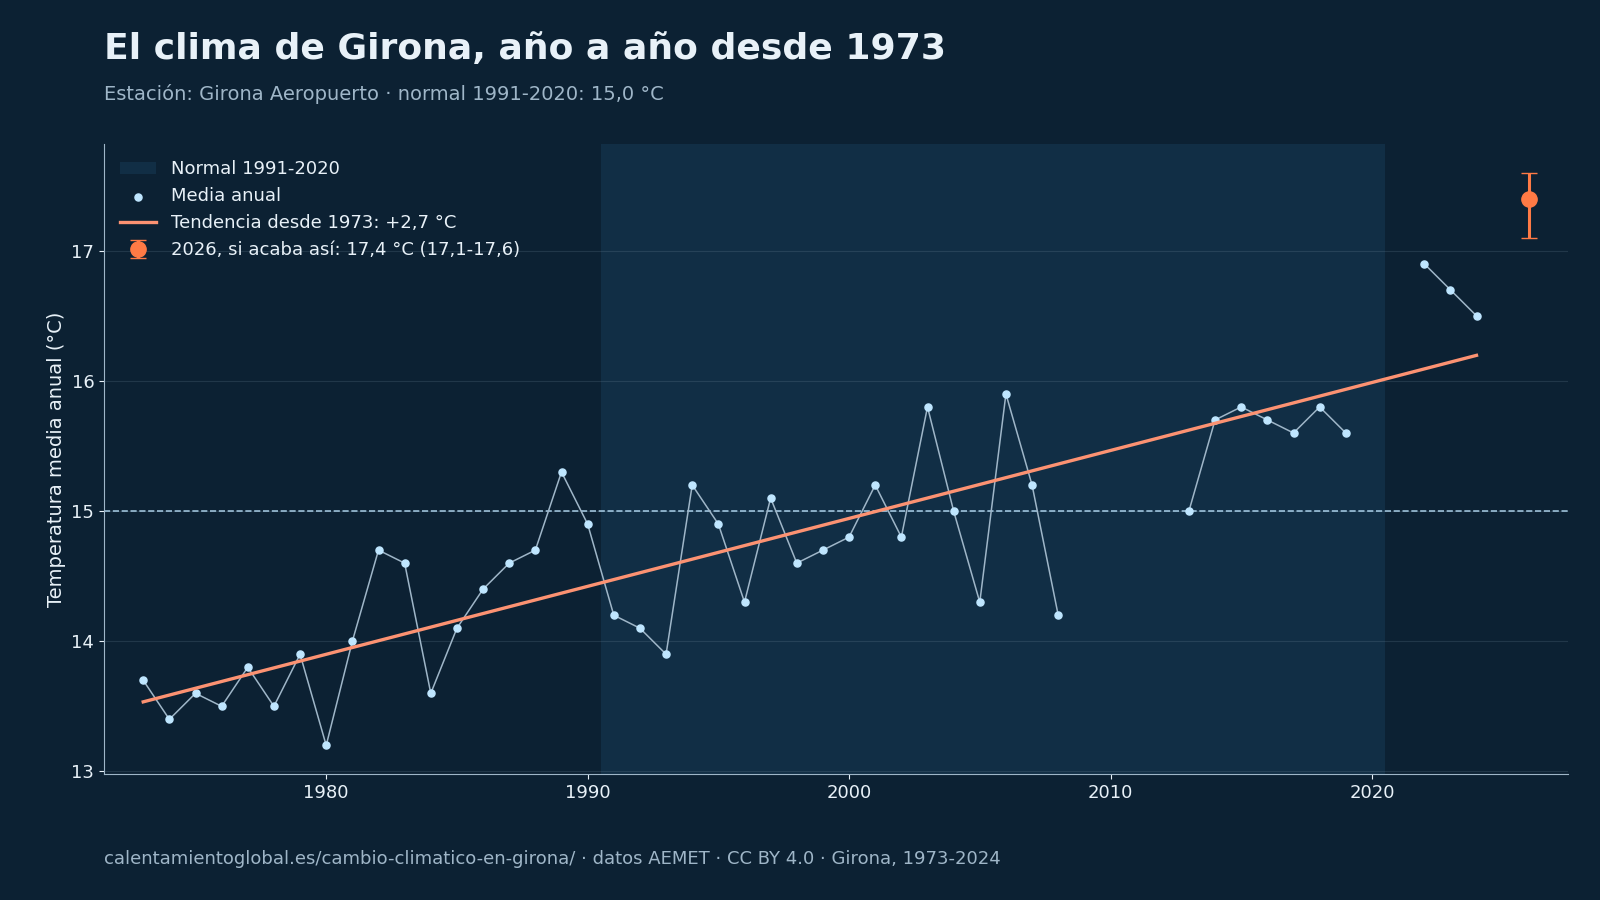
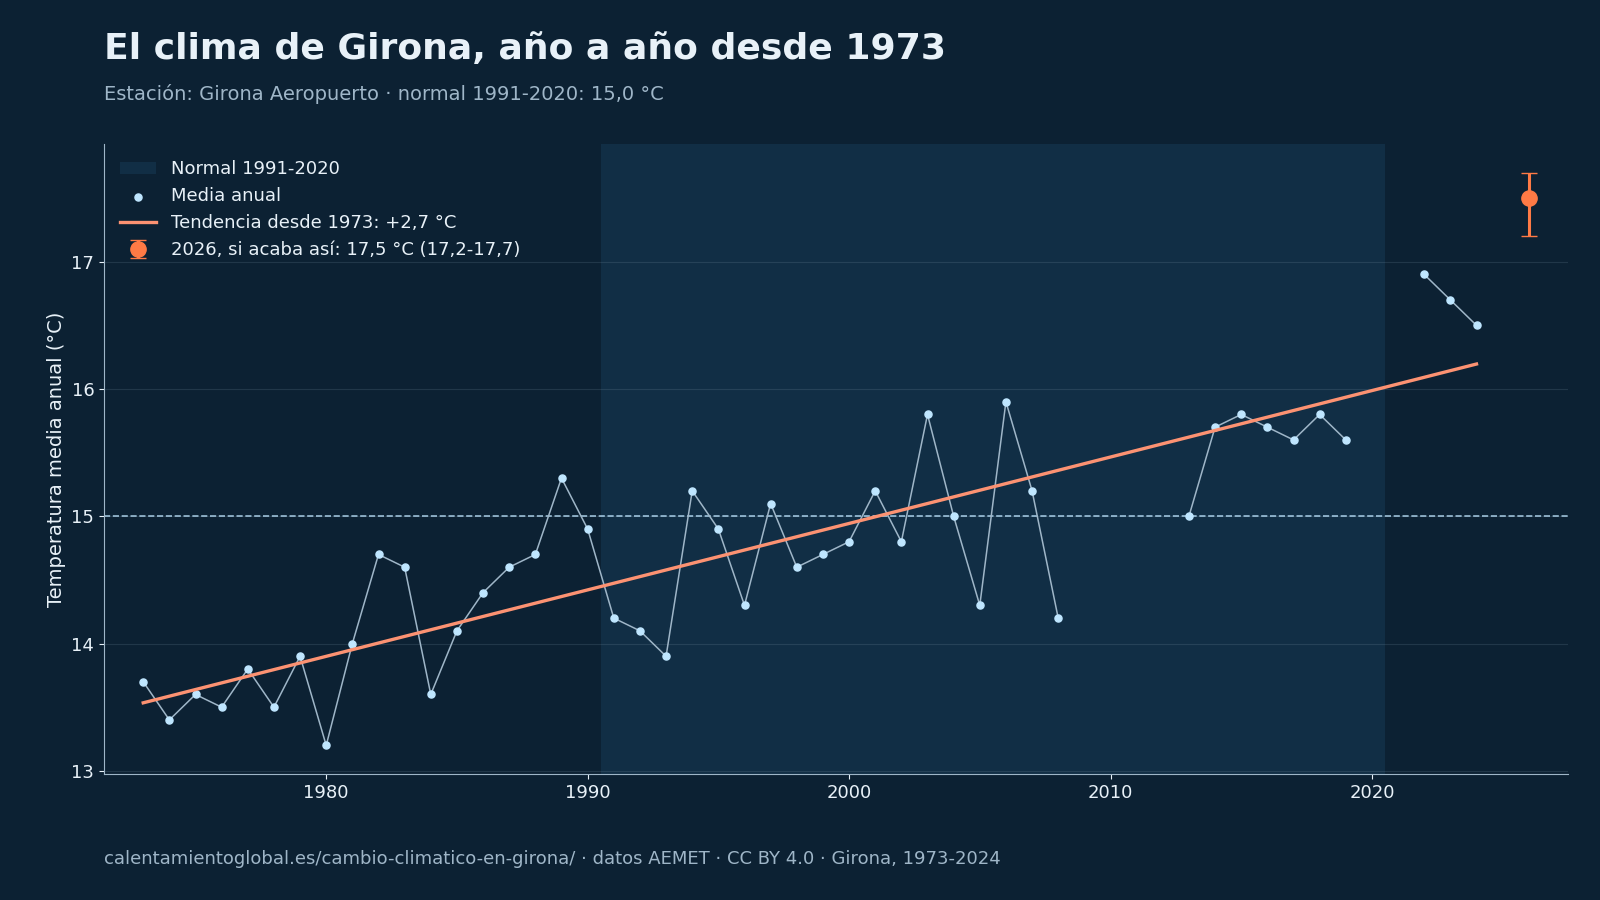
tu-capital: series anuales 2026-11-24 18:04 UTC

diff --git a/docs/tu-capital/nacional-nota.md b/docs/tu-capital/nacional-nota.md
@@ -8,7 +8,7 @@ Cuenca encabeza la lista, con 3,3 °C más que en 1970, seguida de Barcelona (3,
 
 En 44 de las 45 capitales con serie publicada, el año más cálido (solo o empatado) es 2022 o posterior: 2022 lo es en 28; 2025, en 11; 2024, en 9; 2023, en 9. La excepción es Madrid, cuyo récord sigue en 2017 (16,7 °C); 2022 no cuenta en su serie por falta de algún mes válido.
 
-Con los datos diarios validados de AEMET hasta fechas entre el 22 de octubre de 2026 y el 19 de noviembre de 2026, según la estación, 22 capitales van camino de cerrar 2026 como su año más cálido: la horquilla del 90 % de la estimación queda entera al menos 0,2 °C por encima de su récord. Vitoria rondaría los 14,3 °C (entre 14,0 y 14,5) frente a 13,5 °C en 2022 y Madrid rondaría los 17,4 °C (entre 17,2 y 17,5) frente a 16,7 °C en 2017. En conjunto, 44 de las 45 van camino de uno de sus cinco años más cálidos. Son estimaciones que el resto del año puede mover.
+Con los datos diarios validados de AEMET hasta fechas entre el 22 de octubre de 2026 y el 20 de noviembre de 2026, según la estación, 22 capitales van camino de cerrar 2026 como su año más cálido: la horquilla del 90 % de la estimación queda entera al menos 0,2 °C por encima de su récord. Vitoria rondaría los 14,3 °C (entre 14,0 y 14,5) frente a 13,5 °C en 2022 y Madrid rondaría los 17,4 °C (entre 17,2 y 17,5) frente a 16,7 °C en 2017. En conjunto, 44 de las 45 van camino de uno de sus cinco años más cálidos. Son estimaciones que el resto del año puede mover.
 
 Método: media de los 12 meses de cada año con los valores mensuales de AEMET (solo años completos); anomalía frente a la normal 1991-2020 de cada estación; tendencia por mínimos cuadrados desde 1970, solo si t ≥ 2 y si la serie pasa el control de homogeneidad frente a ERA5 desde 1979 (sin saltos de más de 0,5 °C entre décadas completas). Estaciones de referencia: aeropuerto de Gran Canaria para Las Palmas, aeropuerto de Vigo para Pontevedra y Observatorio del Ebro (Tortosa) para Tarragona. La estimación del año en curso sale de una regresión con los años desde 1991, con intervalo del 90 %.
 
